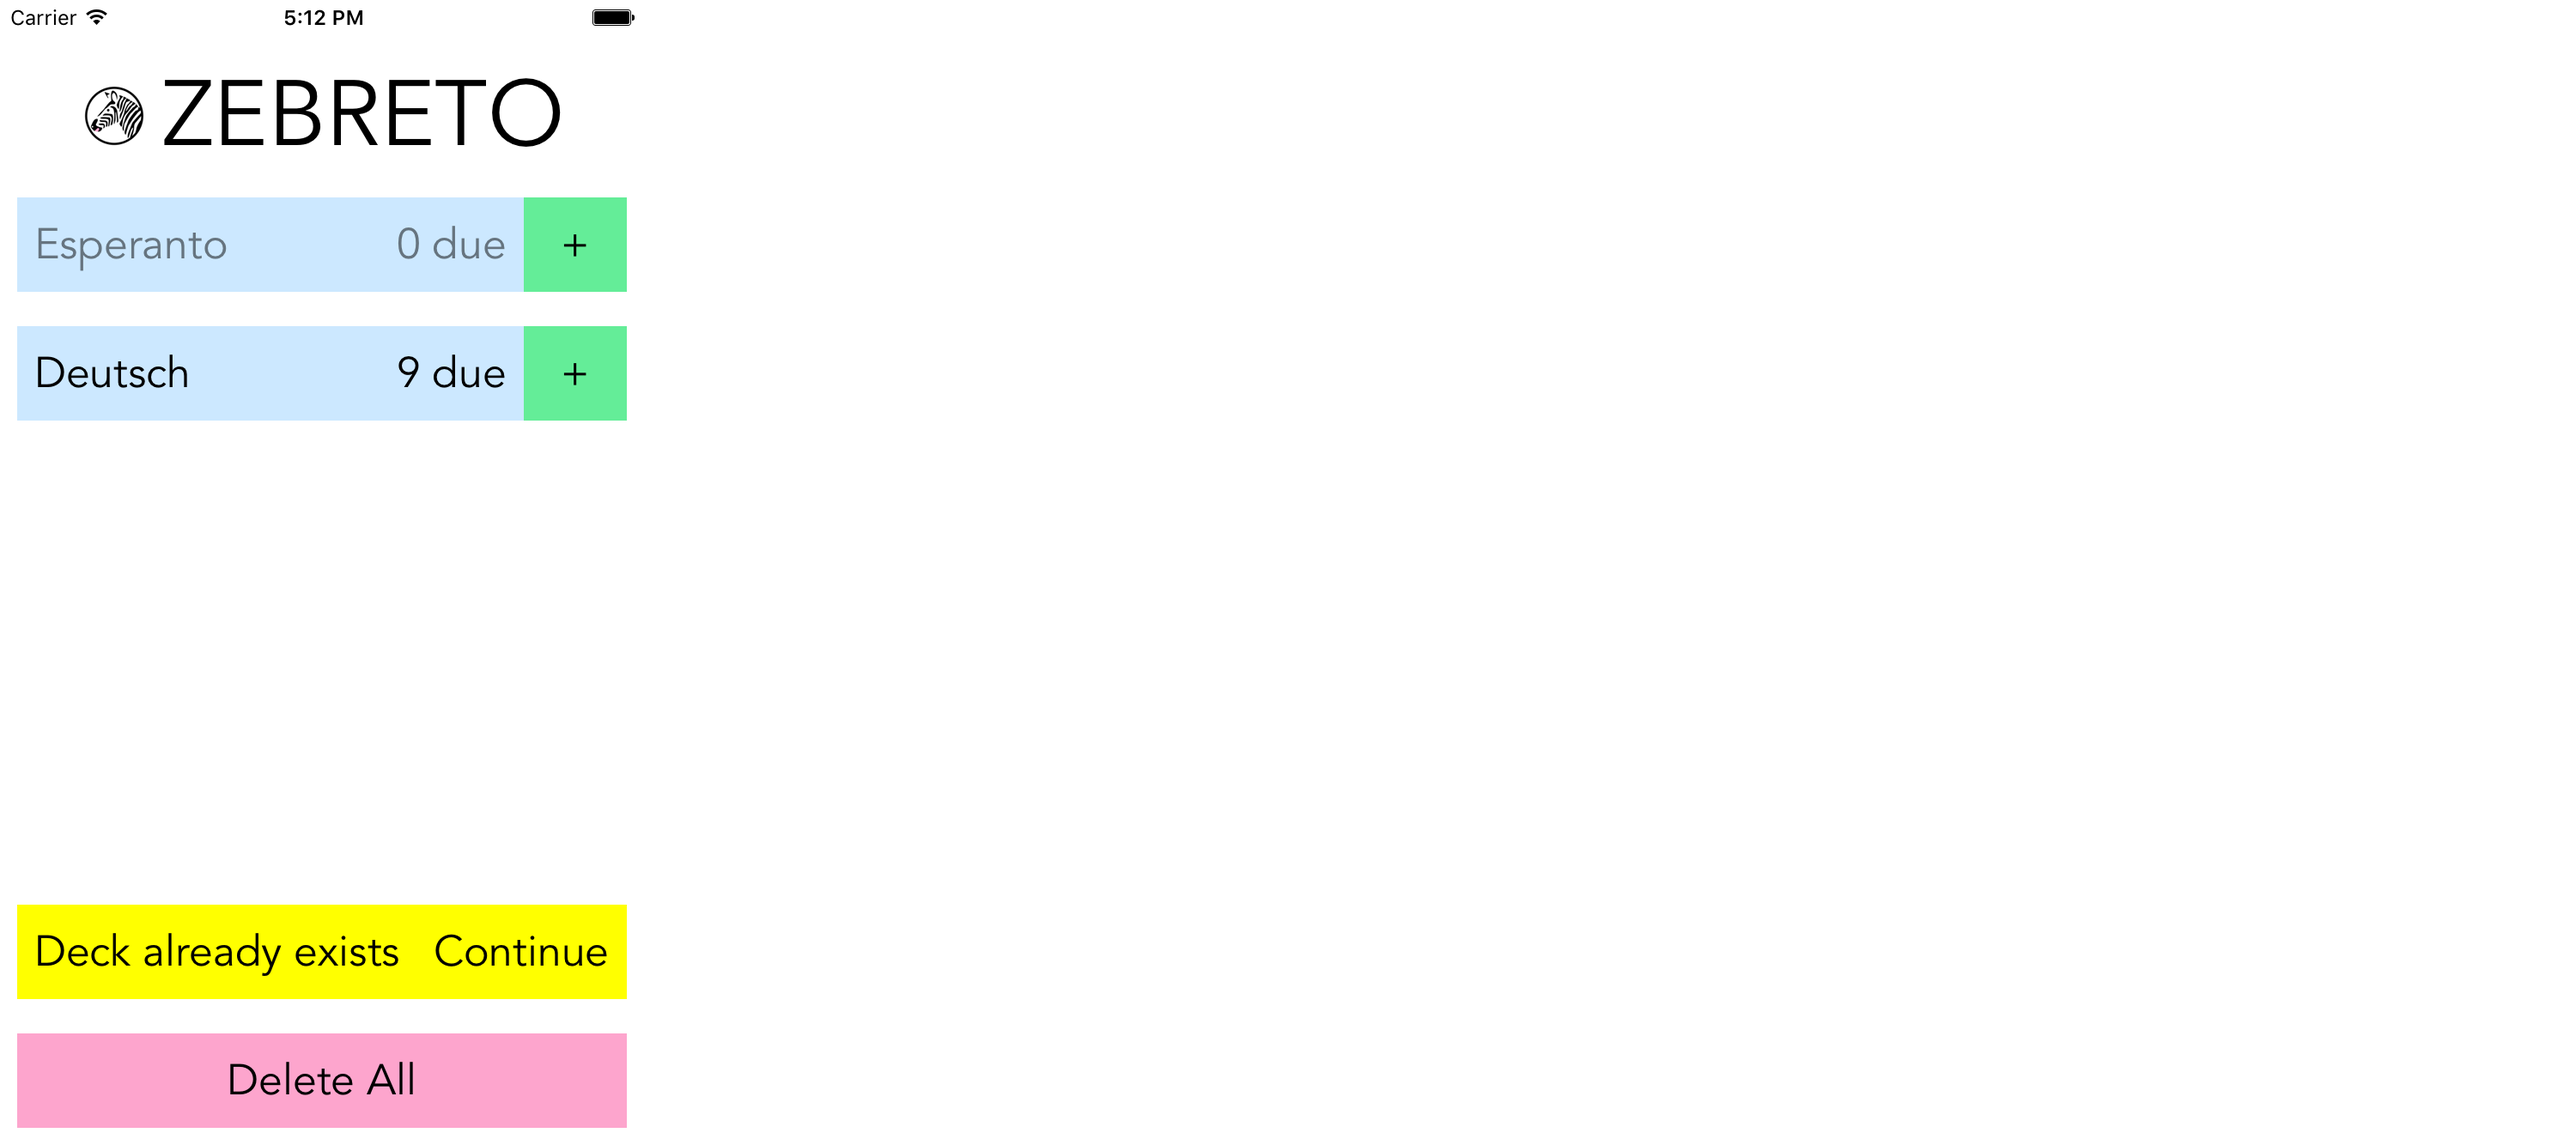
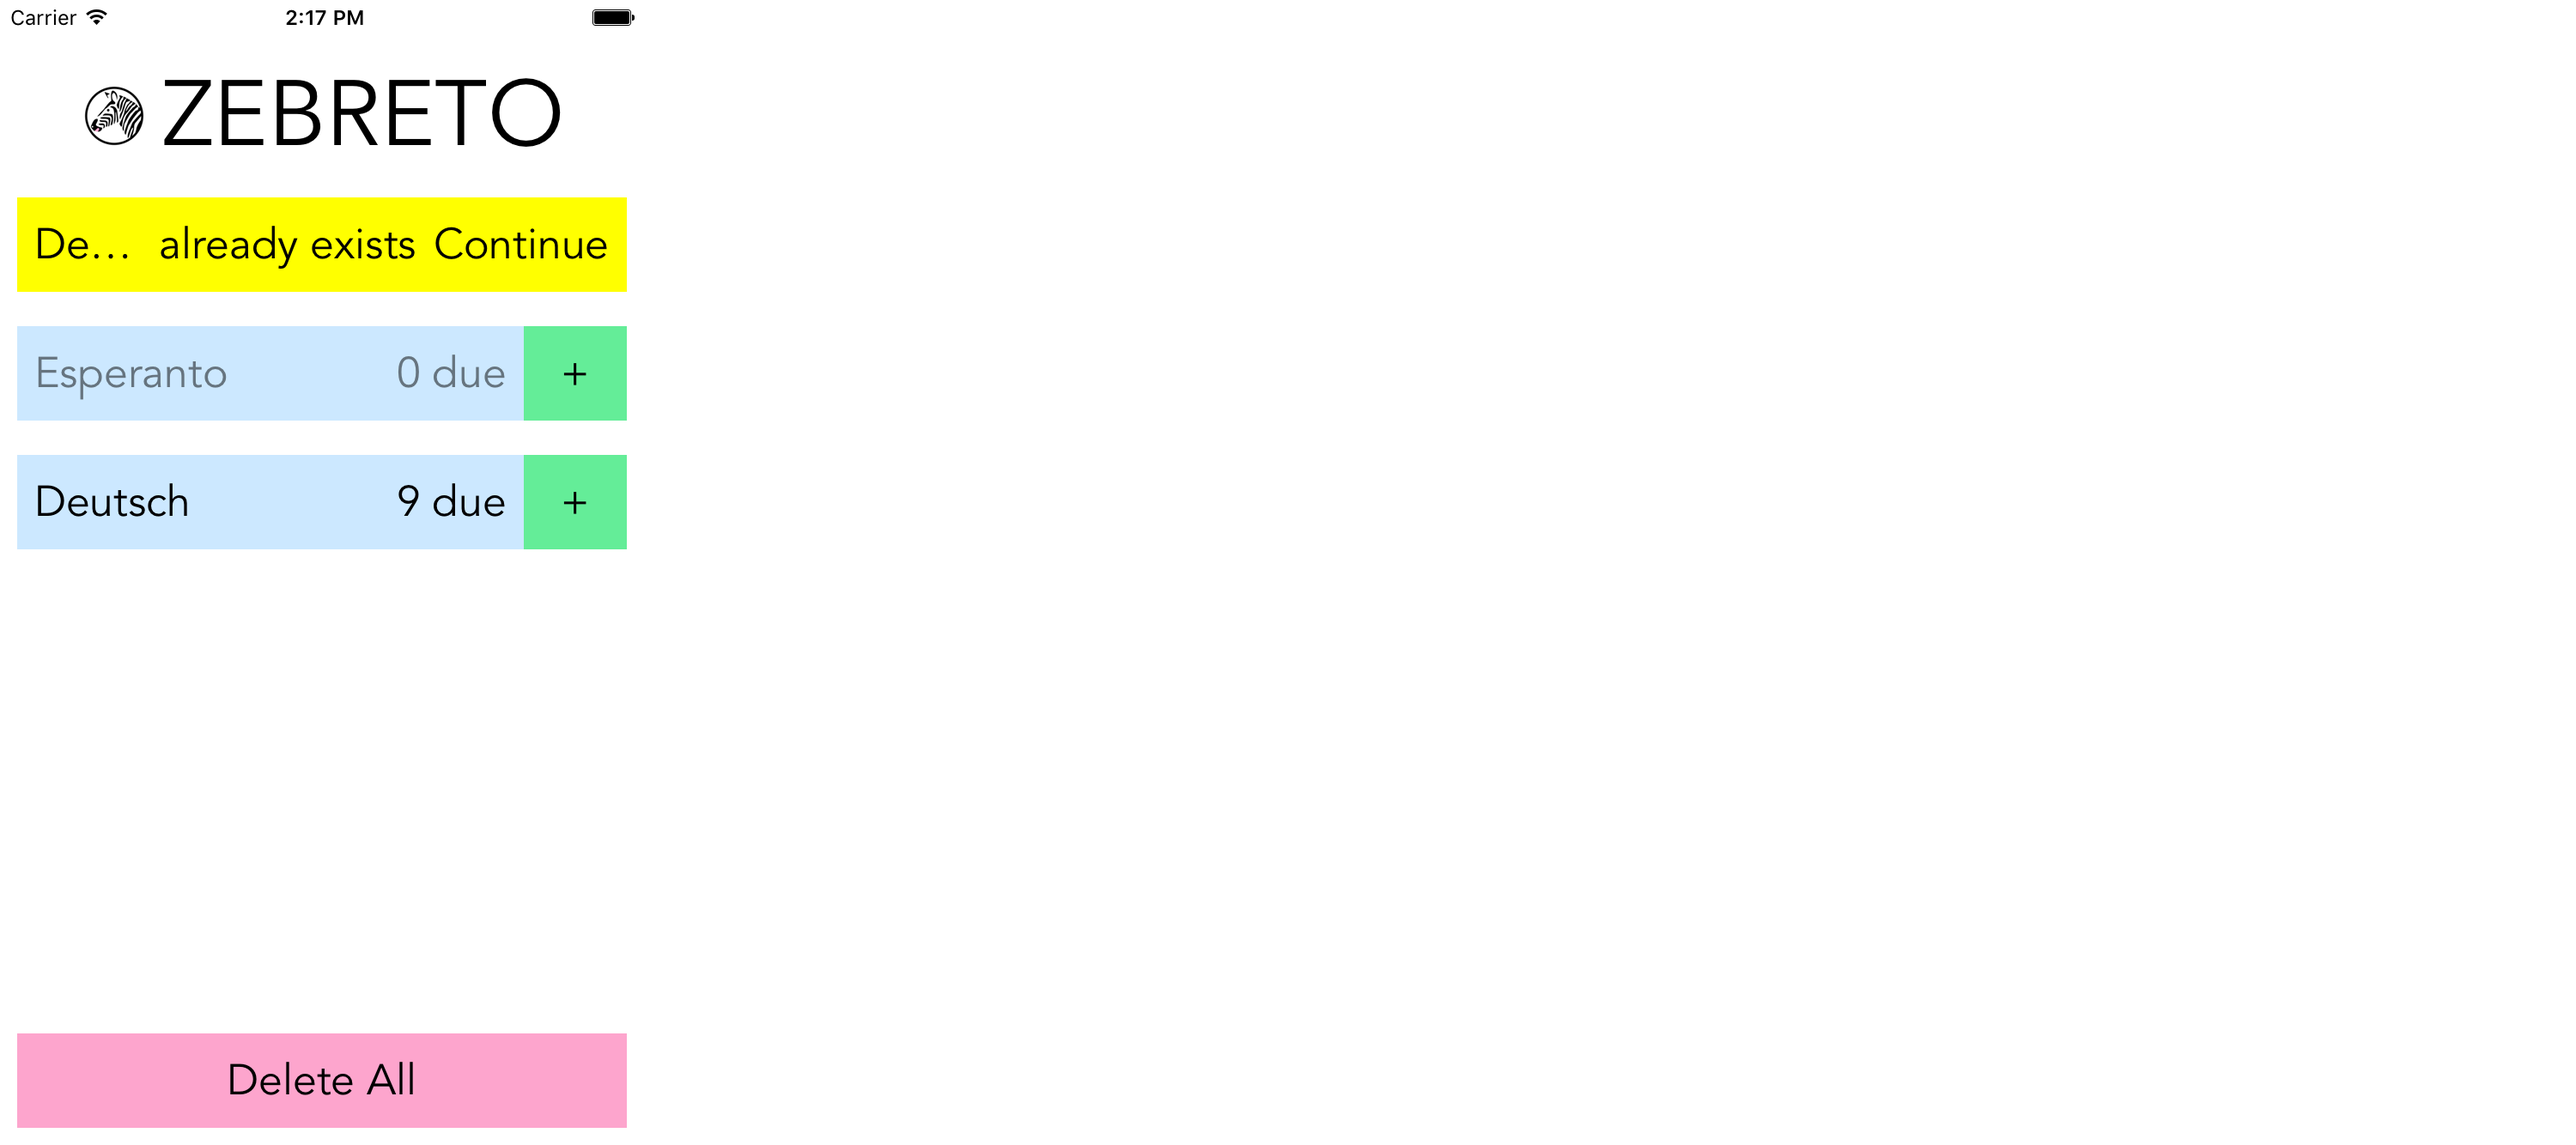
Zebreto: ellipsize name in message when creating deck failed

diff --git a/Zebreto/src/components/Decks/DeckCreation.js b/Zebreto/src/components/Decks/DeckCreation.js
@@ -1,10 +1,14 @@
 import React, { Component, PropTypes } from 'react';
+import {
+  View,
+} from 'react-native';
 
 import Input from './../Input';
 import MessageButton from './../MessageButton';
 import NormalText from './../NormalText';
 
 import colors from './../../styles/colors';
+import layout from './../../styles/layout';
 
 // The component to type the name of a new deck, and then create it.
 export default class DeckCreation extends Component {
@@ -32,14 +36,22 @@ export default class DeckCreation extends Component {
 
   _onEntry = (name) => {
     this.props.createDeck(name);
+    this.setState({
+      continuing: false,
+      name,
+    });
   }
 
+  //<NormalText style={layout.flexShrink} numberOfLines={1} ellipsizeMode='tail'>{`${this.state.name} already exabcdefghijklmnopxists`}</NormalText>
   render() {
     return this.props.status === 'CREATING_DECK_FAILED' && !this.state.continuing
       ? (
           <MessageButton style={colors.failure} onPress={this._continue}>
-            <NormalText>Deck already exists</NormalText>
-            <NormalText>Continue</NormalText>
+            <View style={layout.flexShrinkAncestor} numberOfLines={1}>
+              <NormalText style={layout.flexShrinkDescendant} numberOfLines={1} ellipsizeMode='tail'>{this.state.name}</NormalText>
+              <NormalText> already exists</NormalText>
+            </View>
+            <NormalText style={layout.atRight}>Continue</NormalText>
           </MessageButton>
         )
       : (

diff --git a/Zebreto/src/styles/layout.js b/Zebreto/src/styles/layout.js
@@ -37,12 +37,21 @@ export default StyleSheet.create({
     justifyContent: 'space-between',
   },
 
-  // Absolute position of a child component relative to its parent
-  // causes it to overlay the sibling that precedes it in document order.
-  atTopRight: {
-    position: 'absolute',
-    top: 0,
-    right: 0,
+  // For parent of a leaf component that can shrink so MessageButton displays only one line.
+  flexShrinkAncestor: {
+    flex: 1,
+    flexDirection: 'row',
+    flexShrink: 1,
+  },
+
+  // For leaf component that can shrink so MessageButton displays only one line.
+  flexShrinkDescendant: {
+    flexShrink: 1,
+  },
+
+  // For child of MessageButton that is aligned at the right.
+  atRight: {
+    marginLeft: padding,
   },
 
   // For leaf components that extend View, therefore have block layout.

diff --git a/Zebreto/src/components/NormalText.js b/Zebreto/src/components/NormalText.js
@@ -6,8 +6,8 @@ import {
 import fonts from './../styles/fonts';
 
 // The component to display most of the text.
-const NormalText = ({ children, style }) => (
-  <Text style={[fonts.normal, style]}>
+const NormalText = ({ children, ellipsizeMode, numberOfLines, style }) => (
+  <Text style={[fonts.normal, style]} numberOfLines={numberOfLines} ellipsizeMode={ellipsizeMode}>
     {children}
   </Text>
 );
@@ -15,6 +15,8 @@ const NormalText = ({ children, style }) => (
 NormalText.displayName = 'NormalText';
 NormalText.propTypes = {
   children: PropTypes.node.isRequired,
+  ellipsizeMode: PropTypes.string,
+  numberOfLines: PropTypes.number,
   style: Text.propTypes.style,
 };
 
